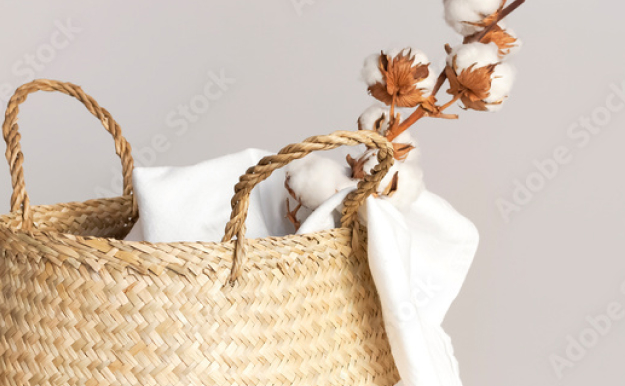
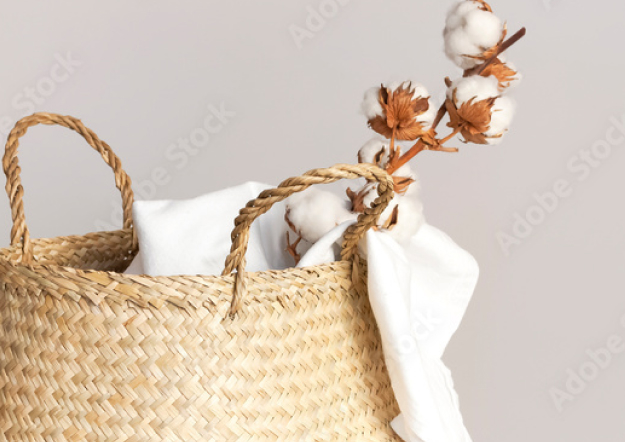
パララックスの調整とswiperの矢印カスタマイズ

Changed region(s): [[0.0, 0.0, 0.8512, 1.0], [0.6992, 0.6839, 0.76, 1.0], [0.6688, 0.4974, 0.7296, 0.5285]]

diff --git a/style.css b/style.css
@@ -165,18 +165,15 @@ header {
   height: auto;
   text-align: right;
   margin-top: 64px;
-  overflow: hidden;
 }
 
 .philosophy__image-1 {
   display: inline-block;
-  width: 100%;
-  max-width: 625px;
-  height: 66vw;
+  width: min(87.2vw, 625px);
+  height: 53.86vw;
   overflow: hidden;
   position: relative;
   right: 0;
-  margin-left: 48px;
   img {
     width: 100%;
     height: auto;
@@ -192,9 +189,9 @@ header {
 }
 
 .philosophy__image-2 {
-  width: 48.3%;
+  width: 55.3%;
   max-width: 625px;
-  height: 35.2vw;
+  height: 29.8vw;
   overflow: hidden;
   img {
     width: 100%;
@@ -203,9 +200,9 @@ header {
 }
 
 .philosophy__image-3 {
-  width: 31%;
+  width: 35.2%;
   max-width: 300px;
-  height: 25.3vw;
+  height: 19vw;
   overflow: hidden;
   img {
     width: 100%;
@@ -296,7 +293,7 @@ header {
   }
 }
 
-.swiper-button-prev, .swiper-button-next {
+/* .swiper-button-prev, .swiper-button-next {
   position: absolute;
   top: 40%;
   color: #7C6957;
@@ -306,6 +303,31 @@ header {
 
 .swiper-button-prev::after, .swiper-button-next::after {
   font-size: 24px;
+} */
+
+.swiper-button-prev, .swiper-button-next {
+  position: absolute;
+  top: 25%;
+  width: 56px;
+  height: 56px;
+  margin: 0 15px;
+}
+
+.swiper-button-prev::after,
+.swiper-button-next::after {
+  content: "";
+  background-size: contain;
+  background-repeat: no-repeat;
+  width: 60%;
+  height: 60%;
+}
+
+.swiper-button-prev::after {
+  background-image: url(./image/prev-button.png);
+}
+
+.swiper-button-next::after {
+  background-image: url(./image/next-button.png);
 }
 
 .swiper-pagination {
@@ -340,8 +362,8 @@ header {
   .item1 img {
     height: auto;
 
-    @media screen and (max-width: 600px) {
-      width: 100vw;
+    @media screen and (max-width: 768px) {
+      width: 90vw;
       max-width: 625px;
     }
   }

diff --git a/main.js b/main.js
@@ -27,6 +27,7 @@ const slider2 = new Swiper('.slider2', {
 });
 
 //アコーディオンメニュー
+
 const accordionItem = document.getElementsByClassName('accordion__item');
 const accordionBtn = document.getElementsByClassName('accordion__head');
 
@@ -37,6 +38,7 @@ for(let i = 0; i < accordionBtn.length; i++) {
 }
 
 //パララックス
+
 const parallaxItems = gsap.utils.toArray('.js-parallax')
 parallaxItems.forEach((item) => {
   gsap.fromTo(
@@ -45,12 +47,12 @@ parallaxItems.forEach((item) => {
       yPercent: 0,
     }, 
     {
-      yPercent: -20,
+      yPercent: -10,
       ease: 'none',
       scrollTrigger: {
         trigger: item,
-        start: 'top bottom',
-        end: 'bottom top',
+        start: 'top center',
+        end: 'center top',
         scrub: 1,
         markers: true,
       },
